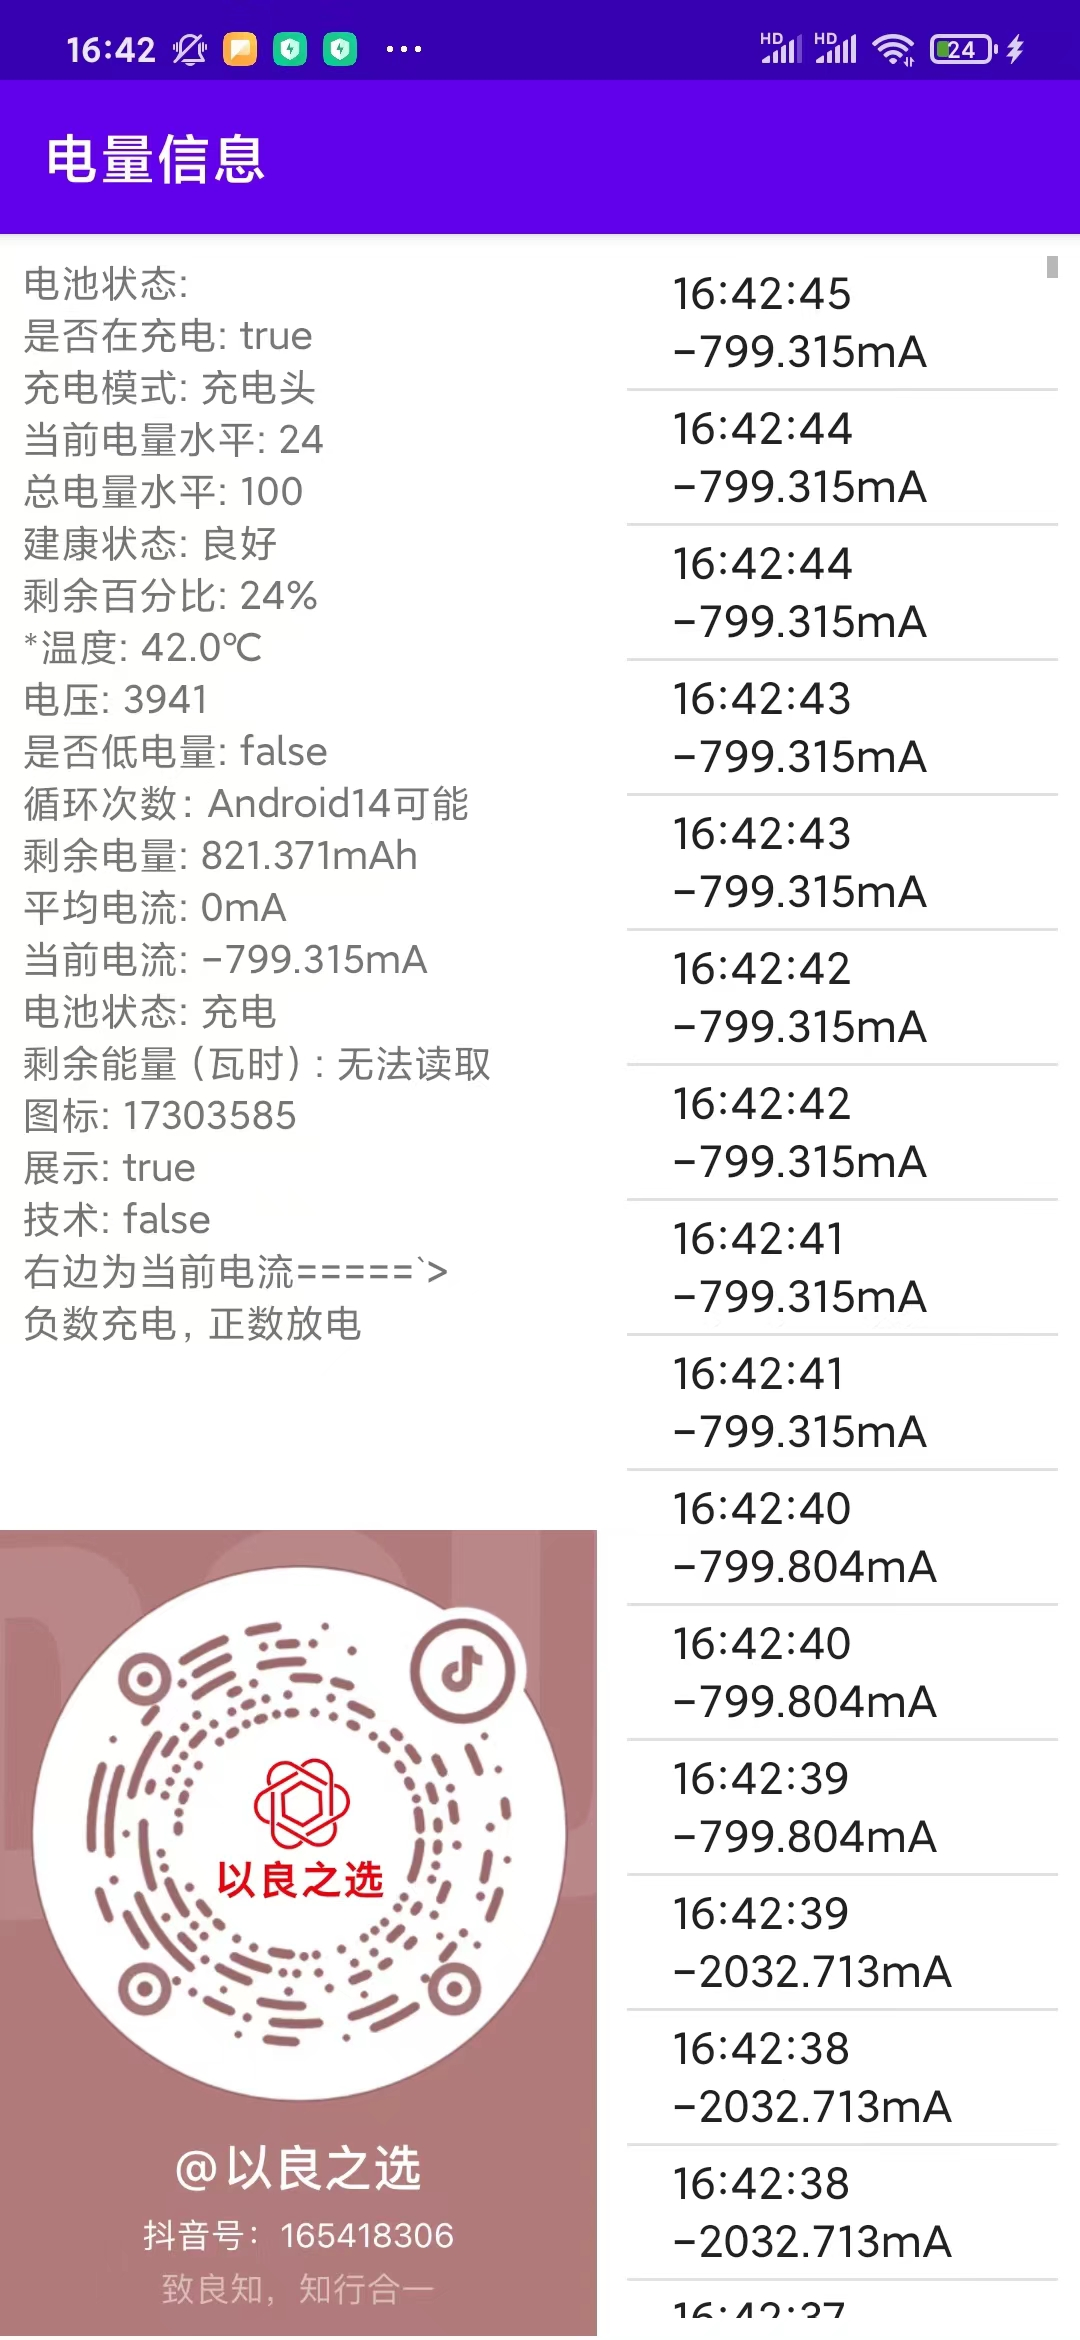
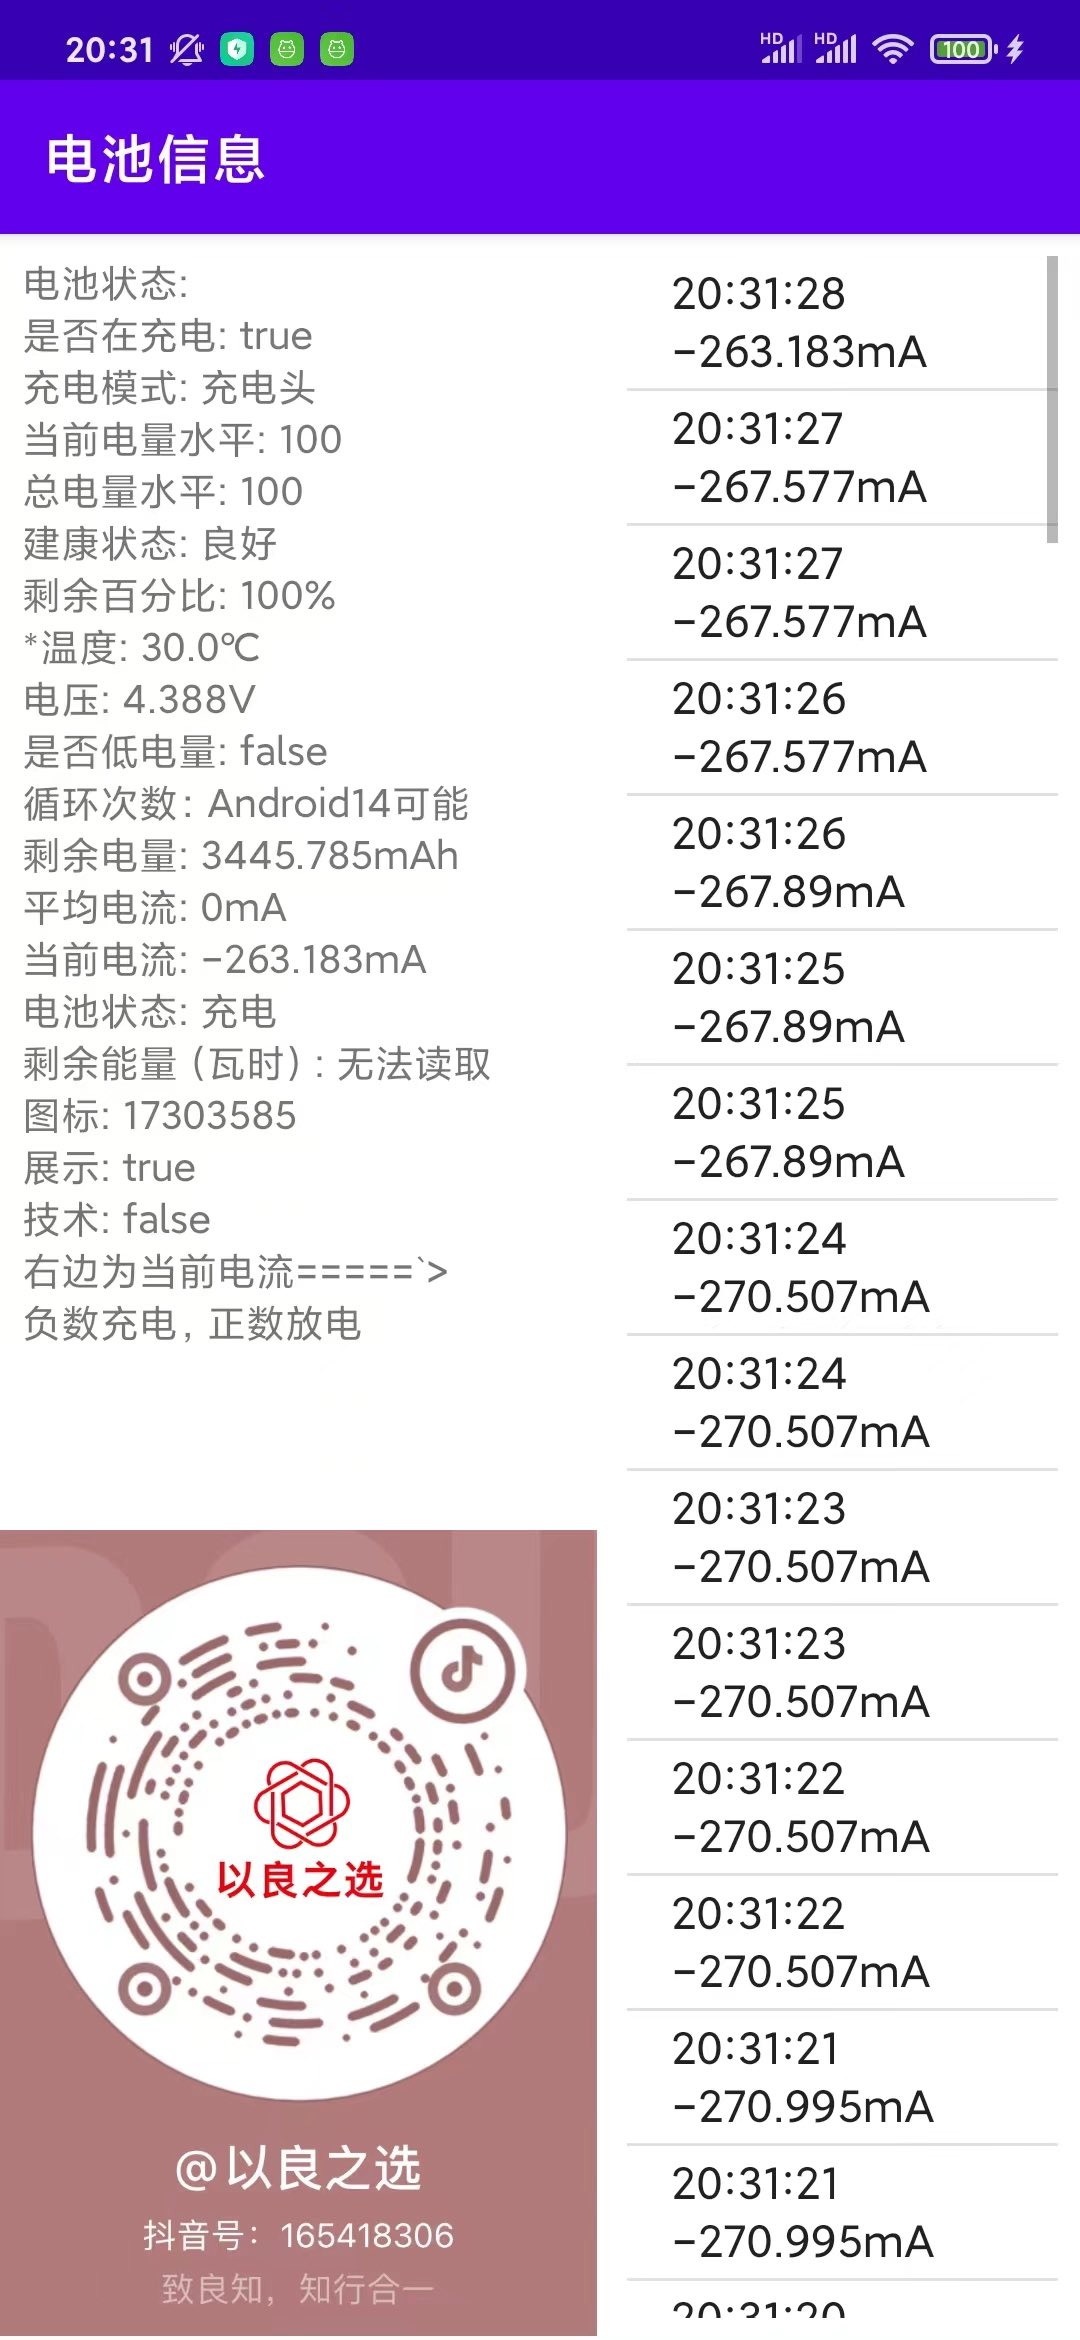
电压值

diff --git a/app/src/main/java/com/onlinemusic/mybattery/FirstFragment.kt b/app/src/main/java/com/onlinemusic/mybattery/FirstFragment.kt
@@ -136,7 +136,7 @@ class FirstFragment : Fragment() {
 建康状态: ${toHealthString(health)}
 剩余百分比: $cap%
 *温度: ${toDisplayNum(temperature, 10)}℃
-电压: $volatile
+电压: ${toDisplayNum(volatile, 1000)}V
 是否低电量: $low
 循环次数：Android14可能
 剩余电量: ${toDisplayNum(cc, 1000)}mAh
